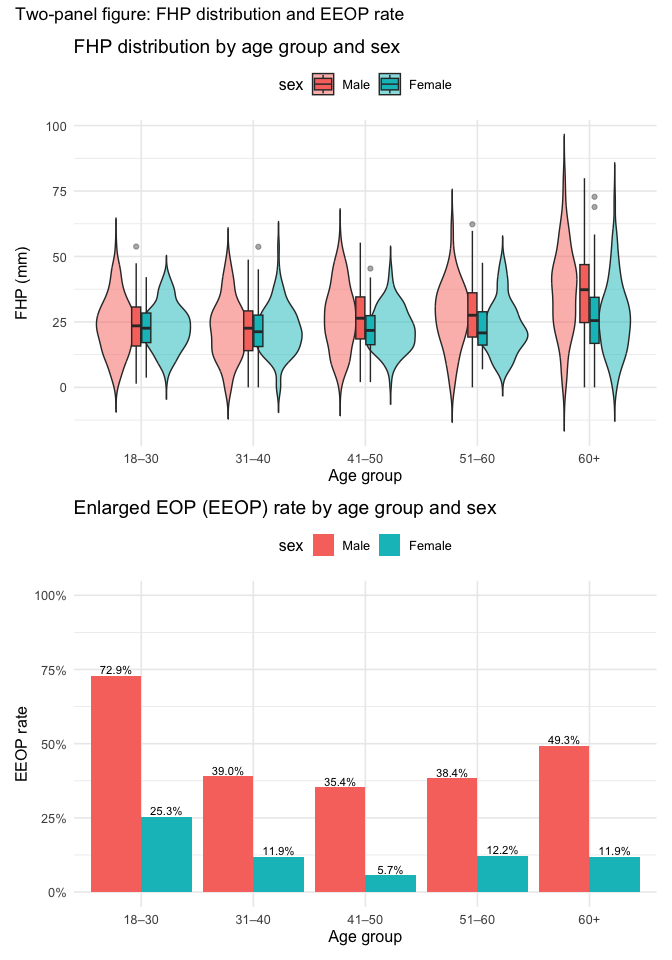
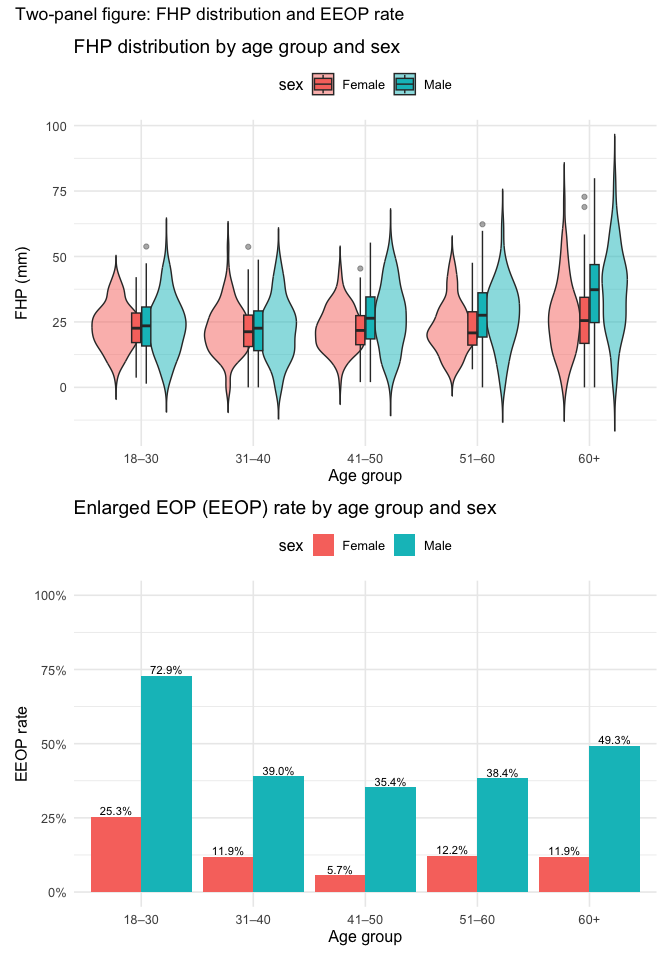
Cut the word count

diff --git a/p8105_mtp_yl6107.md b/p8105_mtp_yl6107.md
@@ -20,20 +20,22 @@ library(patchwork)
 ## Intro
 
 This project is about posture and a head bump called the **external
-occipital protuberance (EOP)**. We use a dataset that came with the
-authors’ correction. We will clean the data, make better plots and check
-the claims.
+occipital protuberance (EOP)**. This analysis refers to the [original
+paper](https://www.nature.com/articles/s41598-018-21625-1) and its
+[correction](https://www.nature.com/articles/s41598-019-49153-6).
+
+We use a dataset that came with the authors’ correction. We will clean
+the data, make some better plots and check the claims by the original
+author.
 
 ## Problem 1 — Import & clean data
 
-Read the Excel file from `data/`. The real data start on line 9 of sheet
-**“this one”**. Clean names. Make clear labels for **sex**, **age
-group**.
+Read the Excel file from `data/`.
 
 Missing **age_group** are filled, but we didn’t fill the missing data in
-**eop_mm** and **fhp_mm** column even if we can *guess* a value from the
-corresponding category. If we do so, a lot of statistics, like the mean
-size, will be polluted.
+**eop_mm** and **fhp_mm** column. We can *guess* a value from the
+corresponding category, but, if we do so, a lot of statistics, like the
+mean size, will be polluted.
 
 ``` r
 path_xlsx <- "data/p8105_mtp_data.xlsx"
@@ -58,7 +60,7 @@ dat <- raw |>
     sex = case_when(sex_num == 1 ~ "Male",
                     sex_num == 0 ~ "Female",
                     TRUE ~ as.character(sex_num)),
-    sex = factor(sex, levels = c("Male","Female")),
+    sex = factor(sex, levels = c("Female", "Male")),
     age_group = case_when(
       age_group == 2 ~ "18–30",
       age_group == 3 ~ "31–40",
@@ -95,55 +97,48 @@ dat <- raw |>
   select(sex, age_years, age_group, eop_mm, eop_cat, eeop, eop_vis, eop_shape, fhp_mm, fhp_cat, eop_mismatch, fhp_mismatch, invalid)
 ```
 
-Total number of participants and the sex distribution are shown as
-below, as well as a summary of EOP and FHP size.
+Total \# participants / age and gender distribution:
 
 ``` r
 # Quick sanity checks
 n_total <- nrow(dat)
-n_by_sex <- dat |>
-  count(sex, name = "n") |>
+n_by_sex_age <- dat |>
+  count(sex, age_group, name = "n") |>
   mutate(p = n / sum(n))
 
-n_total
+knitr::kable(
+  n_by_sex_age,
+  digits = 3,
+  caption = paste0("**Table**: Participants by sex and age group")
+)
 ```
 
-    ## [1] 1221
+| sex    | age_group |   n |     p |
+|:-------|:----------|----:|------:|
+| Female | 18–30     | 152 | 0.124 |
+| Female | 31–40     | 102 | 0.084 |
+| Female | 41–50     | 106 | 0.087 |
+| Female | 51–60     |  99 | 0.081 |
+| Female | 60+       | 155 | 0.127 |
+| Male   | 18–30     | 152 | 0.124 |
+| Male   | 31–40     | 102 | 0.084 |
+| Male   | 41–50     | 102 | 0.084 |
+| Male   | 51–60     | 101 | 0.083 |
+| Male   | 60+       | 150 | 0.123 |
 
-``` r
-n_by_sex
-```
-
-    ## # A tibble: 2 × 3
-    ##   sex        n     p
-    ##   <fct>  <int> <dbl>
-    ## 1 Male     607 0.497
-    ## 2 Female   614 0.503
-
-``` r
-summary(dat[,c("age_years","fhp_mm","eop_mm")])
-```
-
-    ##    age_years         fhp_mm          eop_mm     
-    ##  Min.   :17.00   Min.   : 0.00   Min.   : 0.00  
-    ##  1st Qu.:31.00   1st Qu.:17.20   1st Qu.: 8.20  
-    ##  Median :45.00   Median :24.60   Median :10.80  
-    ##  Mean   :45.51   Mean   :26.10   Mean   :11.87  
-    ##  3rd Qu.:60.00   3rd Qu.:32.75   3rd Qu.:14.50  
-    ##  Max.   :88.00   Max.   :89.30   Max.   :35.70  
-    ##                  NA's   :6       NA's   :518
+**Table**: Participants by sex and age group
 
 **Notes.**
 
+- Total participants = `n_total`
 - Age groups are ordered from **18–30** up to **60+**.
 - We use **EEOP = TRUE** if **EOP category ≥ 2** from the definition in
   the article.
-- Since a lot of rows have **eop_mm** missing, we tolerate the missing
-  rows. But, if the value of **eop_mm** and **eop_cat** are
-  contradictory to each other, we mark the row as **invalid**. We also
-  treat FHP in the same way.
+- For EOP size, we tolerate the missing rows, but, if the value of
+  **eop_mm** and **eop_cat** are contradictory to each other, we mark
+  the row as **invalid**. FHP is also treated in the same way.
 
-Here is a summary about the missing rows.
+Here is a summary about the invalid rows, which are also removed.
 
 ``` r
 # Summaries required in step 2
@@ -163,8 +158,6 @@ print(mismatch_summary)
     ##                    <int>                  <int>               <int>      <int>
     ## 1                     14                     27                1180       1221
 
-Inconsistent data are excluded from the data set.
-
 ``` r
 # remove the invlid rows
 dat <- dat |> 
@@ -175,9 +168,7 @@ dat <- dat |>
 
 ## Problem 2 — Better plots
 
-The violin diagram below shows the distribution of FHP size in each
-age/sex group. And, the bar chart shows the EEOP rate in each age/sex
-group.
+Optimize the data plots in the original paper.
 
 ``` r
 # FHP distribution (violin + box), by age and sex
